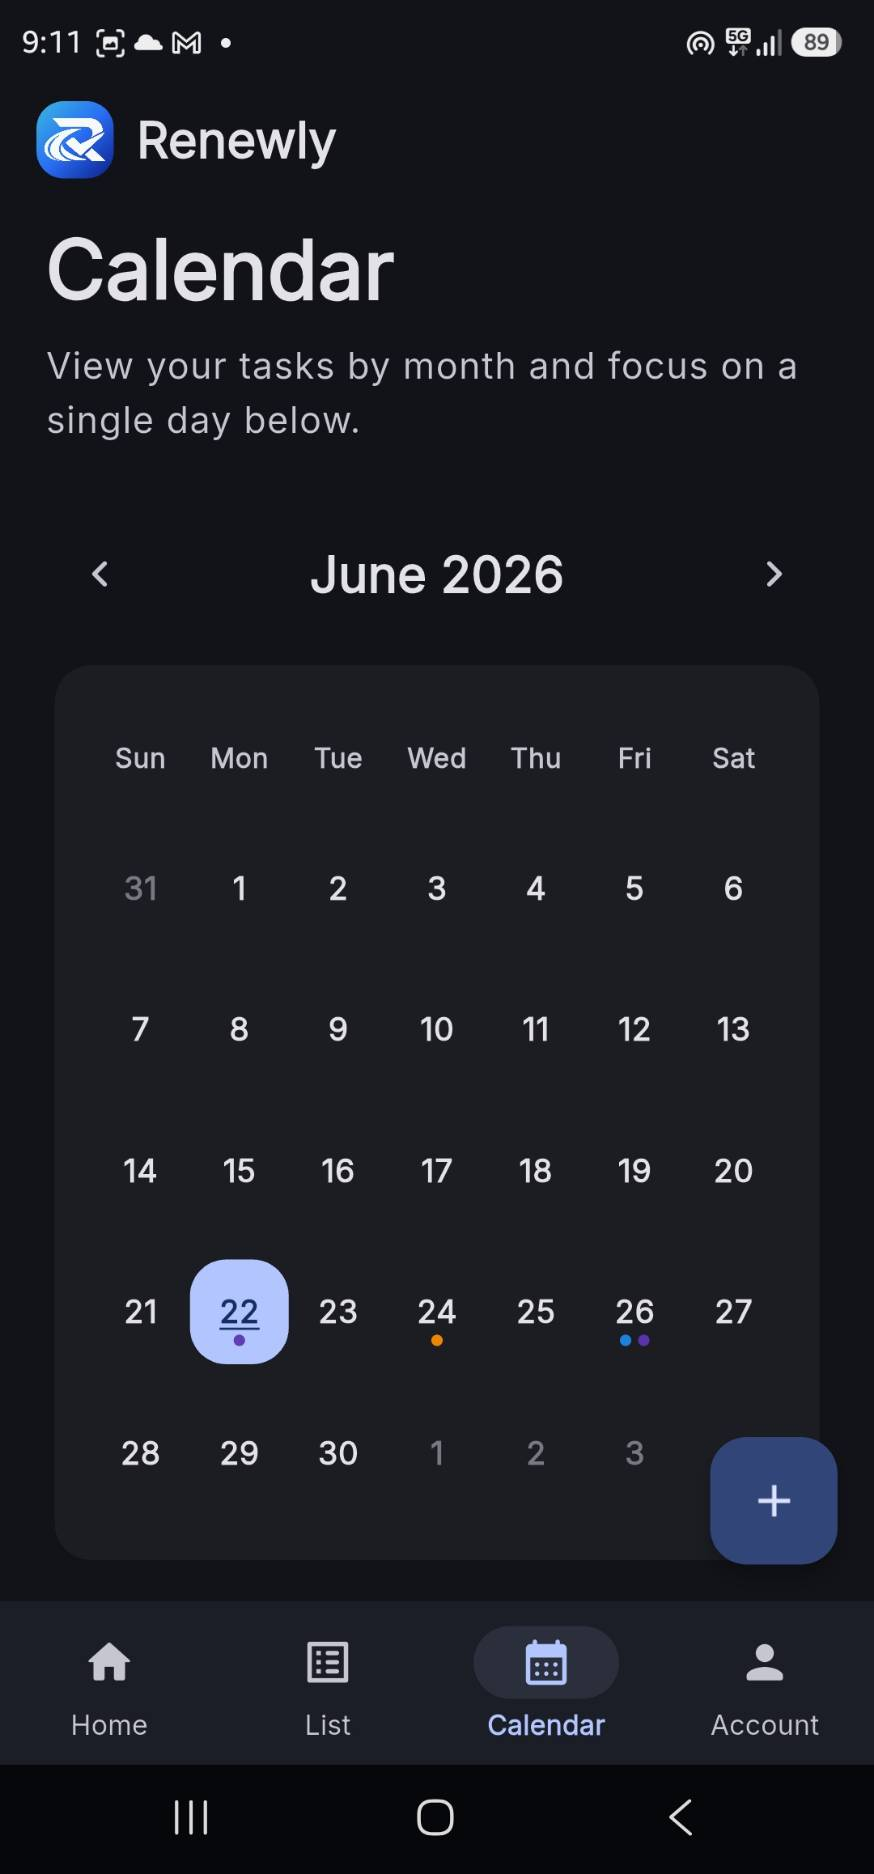
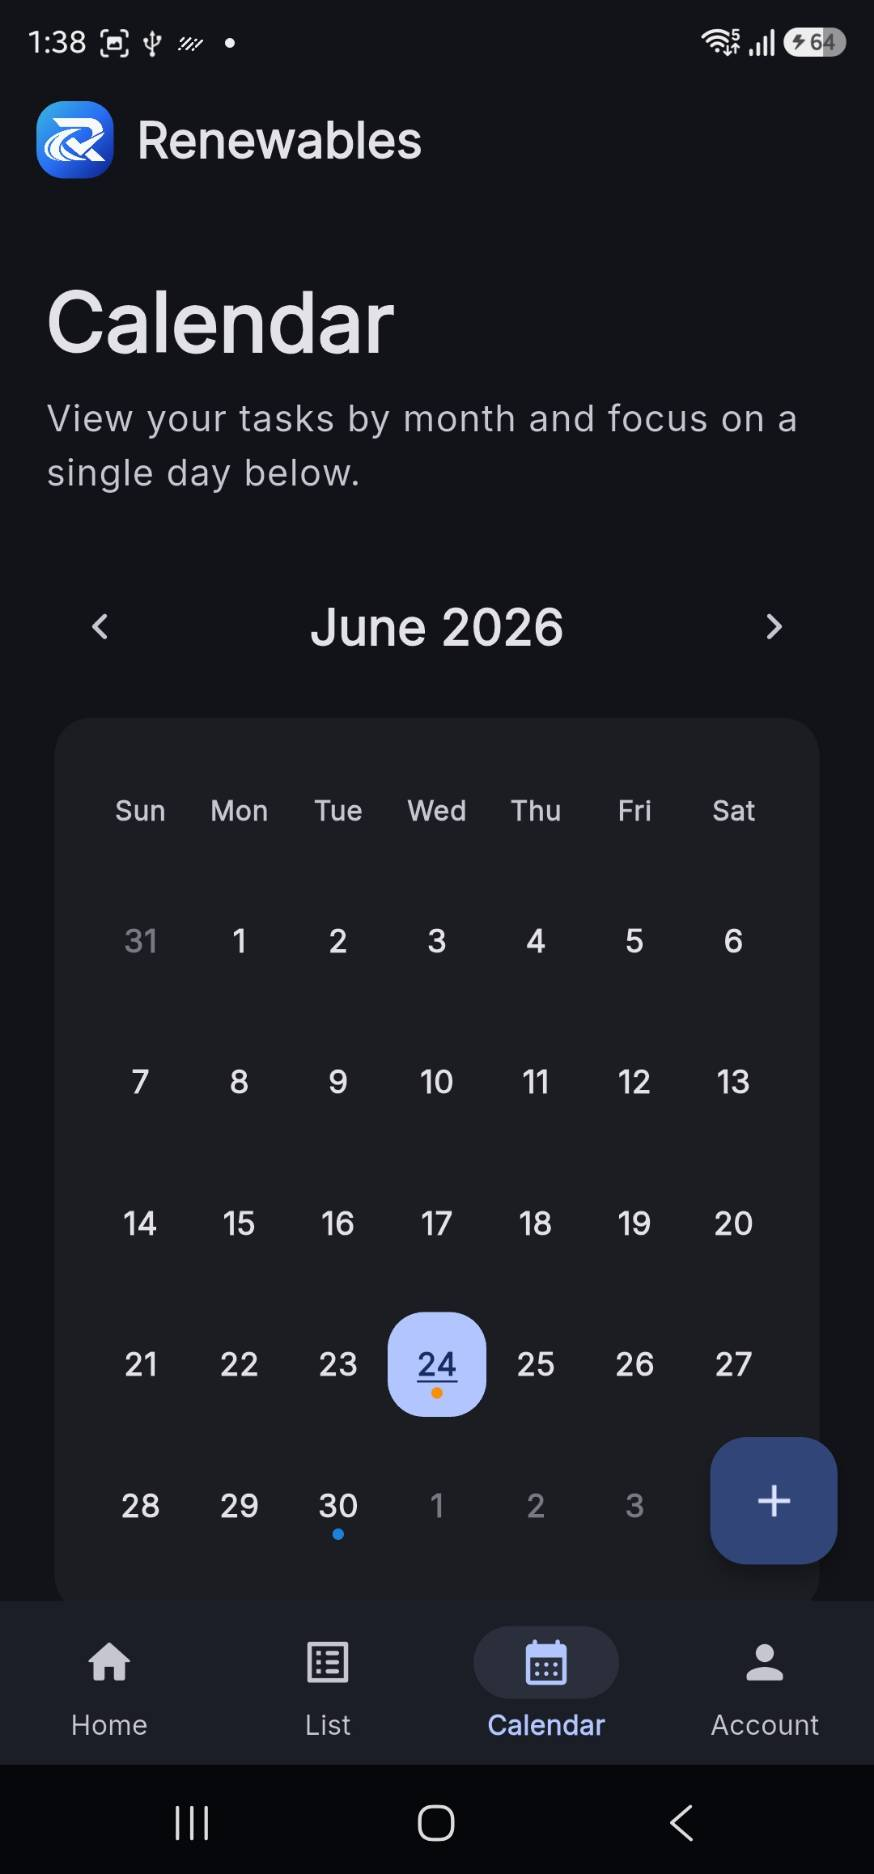
fix: screenshots changes to Renewables

diff --git a/src/pages/LandingPage.tsx b/src/pages/LandingPage.tsx
@@ -146,35 +146,26 @@ export default function LandingPage() {
                     </div>
                 </div>
 
-                <div className="relative mx-auto flex min-h-[520px] w-full max-w-xl items-center justify-center lg:justify-end">
-                    {/* Soft outer glow */}
-                    <div className="absolute h-[34rem] w-[34rem] rounded-full bg-gradient-to-br from-[#246df3]/25 via-[#7a5cff]/20 to-cyan-300/20 blur-3xl" />
-
-                    {/* Decorative glass panel */}
-                    <div className="absolute right-4 top-10 hidden h-[420px] w-[360px] rotate-6 rounded-[3rem] border border-white/70 bg-white/35 shadow-2xl shadow-blue-500/10 backdrop-blur-xl lg:block" />
-
-                    {/* Gradient card behind phone */}
-                    <div className="absolute h-[430px] w-[340px] rotate-[-7deg] rounded-[3rem] bg-gradient-to-br from-[#246df3] via-[#4458ff] to-[#8b5cf6] opacity-90 shadow-2xl shadow-blue-500/30" />
-
-                    {/* Pattern overlay */}
-                    <div className="absolute h-[430px] w-[340px] rotate-[-7deg] rounded-[3rem] bg-[radial-gradient(circle_at_1px_1px,rgba(255,255,255,0.35)_1px,transparent_0)] bg-[length:22px_22px] opacity-40" />
-
-                    {/* Floating mini cards */}
-                    <div className="absolute left-2 top-24 hidden rounded-2xl border border-white/70 bg-white/80 px-4 py-3 shadow-xl shadow-blue-500/10 backdrop-blur-xl lg:block">
-                        <p className="text-xs font-bold text-slate-500">Next renewal</p>
-                        <p className="mt-1 text-sm font-black text-slate-900">Passport · 30 days</p>
+                <div className="relative mx-auto flex min-h-[560px] w-full max-w-xl items-center justify-center overflow-visible">
+                    {/* Soft background glow */}
+                    <div className="pointer-events-none absolute inset-0 z-0 flex items-center justify-center">
+                        <div className="h-[34rem] w-[34rem] rounded-full bg-gradient-to-br from-[#246df3]/20 via-[#7a5cff]/10 to-cyan-300/10 blur-3xl" />
                     </div>
 
-                    <div className="absolute bottom-24 right-0 hidden rounded-2xl border border-white/70 bg-white/80 px-4 py-3 shadow-xl shadow-blue-500/10 backdrop-blur-xl lg:block">
-                        <p className="text-xs font-bold text-slate-500">Reminder</p>
-                        <p className="mt-1 text-sm font-black text-[#246df3]">Active</p>
-                    </div>
+                    {/* Clean background card */}
+                    <div className="absolute z-10 h-[380px] w-[450px] rounded-[3rem] border border-white/70 bg-white/50 shadow-2xl shadow-blue-500/10 backdrop-blur-2xl" />
 
-                    {/* Phone image */}
+                    {/* Subtle accent layer */}
+                    <div className="absolute z-20 h-[530px] w-[380px] rotate-[5deg] rounded-[2.75rem] bg-gradient-to-br from-[#246df3]/90 via-[#4f63ff]/85 to-[#8b5cf6]/80 shadow-2xl shadow-blue-500/25" />
+
+                    {/* Light pattern overlay */}
+                    <div className="absolute z-30 h-[430px] w-[400px] rotate-[8deg] rounded-[2.75rem] bg-[radial-gradient(circle_at_1px_1px,rgba(255,255,255,0.28)_1px,transparent_0)] bg-[length:24px_24px] opacity-35" />
+
+                    {/* Phone image - always centered */}
                     <img
                         src="/app-phone.png"
                         alt="Renewables app preview on phone"
-                        className="relative z-10 w-full max-w-[430px] drop-shadow-[0_45px_90px_rgba(30,64,175,0.45)] transition duration-500 hover:scale-[1.015]"
+                        className="relative z-40 mx-auto w-full max-w-[380px] drop-shadow-[0_45px_90px_rgba(30,64,175,0.42)] transition duration-500 hover:scale-[1.015]"
                     />
                 </div>
             </section>
